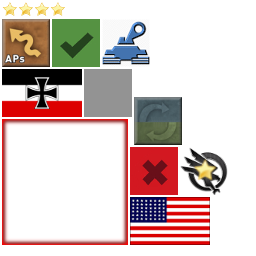
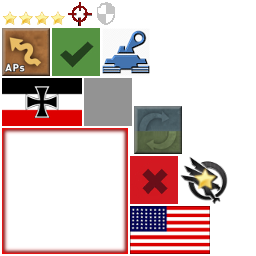
Engagement: use attack and defense images intsead of flags

Changed region(s): [[0.0, 0.0, 0.9062, 1.0]]

diff --git a/core/src/ch/asynk/tankontank/game/hud/Engagement.java b/core/src/ch/asynk/tankontank/game/hud/Engagement.java
@@ -18,9 +18,9 @@ public class Engagement extends Bg implements Animation
     public float padding;
     private Sprite usFlag;
     private Sprite geFlag;
-    private Sprite geWinner;
-    private Sprite usWinner;
     private Sprite winner;
+    private Sprite attackImg;
+    private Sprite defenseImg;
     private Label attack;
     private Label defense;
     private Label attackR;
@@ -34,10 +34,8 @@ public class Engagement extends Bg implements Animation
         super(region);
         usFlag = new Sprite(atlas.findRegion("us-flag"));
         geFlag = new Sprite(atlas.findRegion("ge-flag"));
-        usWinner = new Sprite(usFlag);
-        geWinner = new Sprite(geFlag);
-        usFlag.setSize(usFlag.getWidth() * (FLAG_HEIGHT / usFlag.getHeight()), FLAG_HEIGHT);
-        geFlag.setSize(geFlag.getWidth() * (FLAG_HEIGHT / geFlag.getHeight()), FLAG_HEIGHT);
+        attackImg = new Sprite(atlas.findRegion("attack"));
+        defenseImg = new Sprite(atlas.findRegion("defense"));
         this.attack = new Label(font);
         this.defense = new Label(font);
         this.attackR = new Label(font);
@@ -57,16 +55,16 @@ public class Engagement extends Bg implements Animation
         attackR.write(String.format("= %2d", e.attack));
         defenseR.write(String.format("= %2d", e.defense));
         if (e.success)
-            winner = ((e.attacker == Army.US) ? usWinner : geWinner);
+            winner = ((e.attacker == Army.US) ? usFlag : geFlag);
         else
-            winner = ((e.attacker == Army.US) ? geWinner : usWinner);
+            winner = ((e.attacker == Army.US) ? geFlag : usFlag);
 
         float resultW = attackR.getWidth();
         float w = defenseR.getWidth();
         if (w > resultW)
             resultW = w;
-        float height = (okBtn.getHeight() + (2 * usFlag.getHeight()) + (4 * padding));
-        float width = (usFlag.getWidth() + (2 * d1Animation.getWidth()) + attack.getWidth() + resultW + (6 * padding));
+        float height = (okBtn.getHeight() + attackImg.getHeight() + defenseImg.getHeight() + (4 * padding));
+        float width = (attackImg.getWidth() + (2 * d1Animation.getWidth()) + attack.getWidth() + resultW + (6 * padding));
         float x = position.getX(width);
         float y = position.getY(height);
         set(x, y, width, height);
@@ -77,23 +75,21 @@ public class Engagement extends Bg implements Animation
         x += padding;
         y += (okBtn.getHeight() + padding);
 
-        Sprite flag = ((e.defender == Army.US) ? usFlag : geFlag);
-        flag.setPosition(x, y);
-        x += (flag.getWidth() + padding);
-        y = (y + (flag.getHeight() / 2.0f) - (defense.getHeight() / 2.0f));
+        defenseImg.setPosition(x, y);
+        x += (defenseImg.getWidth() + padding);
+        y = (y + (defenseImg.getHeight() / 2.0f) - (defense.getHeight() / 2.0f));
         defense.setPosition(x, y);
         defenseR.setPosition((getX() + width - resultW- padding), y);
 
         x = getX() + padding;
-        y += flag.getHeight() + padding;
-        flag = ((flag == geFlag) ? usFlag : geFlag);
-        flag.setPosition(x, y);
-        x += (flag.getWidth() + padding);
+        y += defenseImg.getHeight() + padding;
+        attackImg.setPosition(x, y);
+        x += (attackImg.getWidth() + padding);
         d1Animation.set(e.d1, x, y);
         x += (d1Animation.getWidth() + padding);
         d2Animation.set(e.d2, x, (y));
         x += (d1Animation.getWidth() + padding);
-        y = (y + (flag.getHeight() / 2.0f) - (attack.getHeight() / 2.0f));
+        y = (y + (attackImg.getHeight() / 2.0f) - (attack.getHeight() / 2.0f));
         attack.setPosition(x, y);
         attackR.setPosition(defenseR.getX(), y);
 
@@ -134,13 +130,13 @@ public class Engagement extends Bg implements Animation
     {
         if (!visible) return;
         super.draw(batch);
-        attack.draw(batch);
-        defense.draw(batch);
-        defenseR.draw(batch);
-        geFlag.draw(batch);
-        usFlag.draw(batch);
+        attackImg.draw(batch);
         d1Animation.draw(batch);
         d2Animation.draw(batch);
+        attack.draw(batch);
+        defenseImg.draw(batch);
+        defense.draw(batch);
+        defenseR.draw(batch);
         okBtn.draw(batch);
         if (d1Animation.isDone() && d2Animation.isDone()) {
             attackR.draw(batch);
